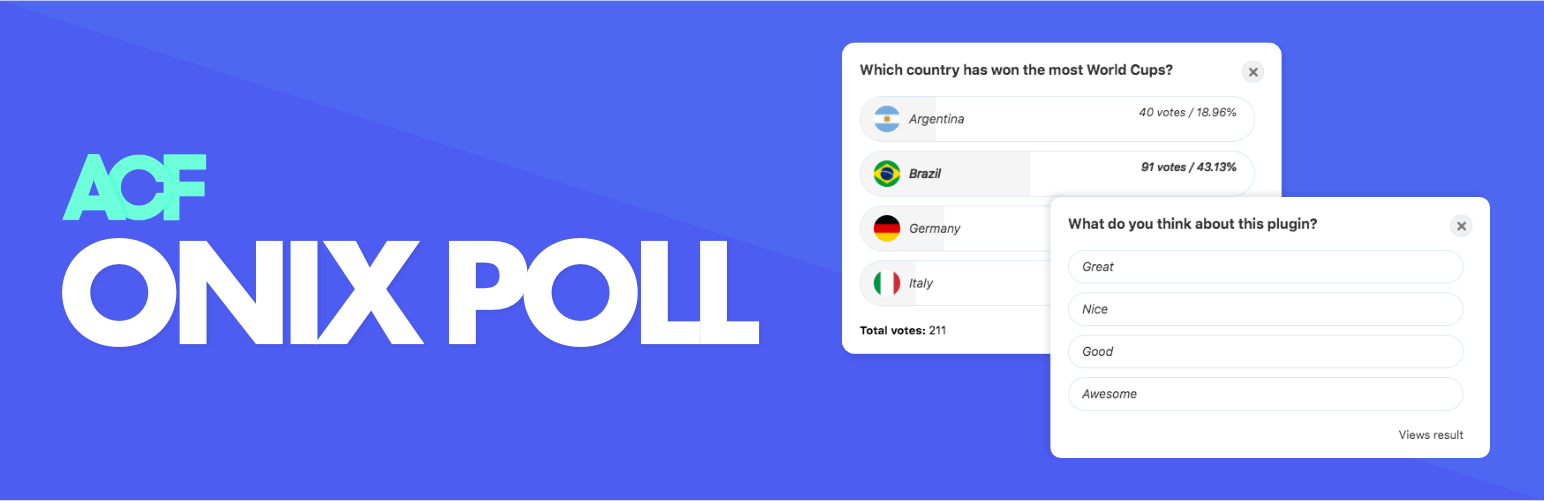
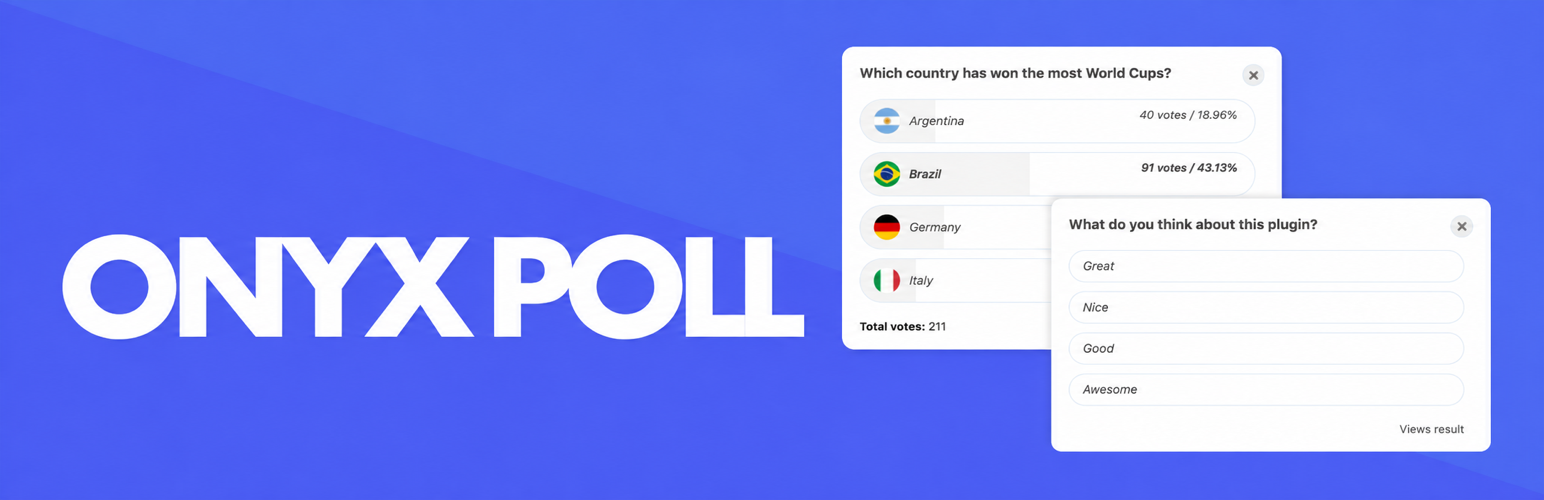
Enhance Onyx Poll plugin with migration support and breaking changes for version 2.0
- Implemented automatic migration from legacy ACF-based storage to dedicated plugin tables, preserving poll IDs, titles, answers, and settings.
- Updated poll retrieval logic to accommodate migration, ensuring compatibility with existing shortcodes and widgets.
- Introduced new language strings for migration FAQs and breaking changes in the Portuguese translation.
- Updated readme and documentation to reflect new requirements (WordPress 6.3 and PHP 7.4) and migration process.
- Improved asset management by validating image dimensions and ensuring proper handling of directory assets during release preparation.
- Added integration tests to verify migration behavior and poll retrieval under various conditions.
- Removed ACF dependency, allowing the plugin to function independently while maintaining backward compatibility with existing installations.

diff --git a/admin/poll-settings-help.php b/admin/poll-settings-help.php
@@ -30,6 +30,17 @@ class OnyxPollsSettingsHelp {
 		self::start(__('Do I need ACF or ACF PRO?', 'acf-onyx-poll'));
 		self::paragraph(__('No. Onyx Poll has its own editor, settings and database tables. Existing polls are migrated automatically and keep their IDs, answers, images and votes.', 'acf-onyx-poll'));
 		self::end();
+		self::start(__('How does migration from 1.2.0 to 2.0 work?', 'acf-onyx-poll'));
+		self::paragraph(__('Migration starts on activation or on the next WordPress request after updating an active plugin. It copies polls in resumable batches of 50 per request; a poll needed by a block, shortcode, widget or modal is imported on demand. No manual import or ACF installation is required.', 'acf-onyx-poll'));
+		self::paragraph(__('Poll IDs, answer order, image references, individual vote counters, dates and settings are preserved. Repeated migration does not overwrite new votes. Old custom fields are kept, but new votes and edits are saved only in the plugin tables.', 'acf-onyx-poll'));
+		self::end();
+		self::start(__('What are the breaking changes in 2.0?', 'acf-onyx-poll'));
+		self::paragraph(__('Version 2.0 requires WordPress 6.3 and PHP 7.4 or newer. The database user must be allowed to create tables. Back up the database and plugin files and test the update on a staging copy before updating a production site.', 'acf-onyx-poll'));
+		self::paragraph(__('Existing plugin blocks, shortcodes and widgets remain compatible. Custom code that reads or writes ACF poll fields or legacy post metadata, or relies on ACF forms and hooks, must be adapted to dedicated storage and native forms. Total votes is now read-only and equals the sum of the answers; a different manually entered total will change.', 'acf-onyx-poll'));
+		self::end();
+		self::start(__('Can I remove ACF or downgrade after updating?', 'acf-onyx-poll'));
+		self::paragraph(__('Onyx Poll and migration work without ACF. Keep ACF if your theme or other plugins need it. Downgrading to 1.2.0 does not copy new votes or edits back into legacy fields, and restoring a backup loses changes made after that backup. Keep a current database backup and test any rollback separately.', 'acf-onyx-poll'));
+		self::end();
 		self::start(__('How do I add a poll to a post?', 'acf-onyx-poll'));
 		self::paragraph(__('Insert the Onyx Poll block, select a poll and choose its style. You can also use a shortcode: without an ID it shows the latest published poll; with an ID it shows that specific poll.', 'acf-onyx-poll'));
 		self::code("[onyx-poll]\n[onyx-poll id=85]\n[onyx-poll id=85 class=\"twitter full\"]");

diff --git a/tests/integration.php b/tests/integration.php
@@ -172,6 +172,23 @@ try {
 	OnyxPollsStorage::upgrade();
 	$remaining = (int) $wpdb->get_var("SELECT COUNT(*) FROM $wpdb->posts p LEFT JOIN " . OnyxPollsStorage::table() . " o ON o.poll_id=p.ID WHERE p.post_type='onyxpolls' AND o.poll_id IS NULL");
 	onyx_check($remaining === 1 && !get_option(OnyxPollsStorage::MIGRATION), 'Migration pauses after a bounded batch of 50.');
+	$latest_batch_id = end($batch_ids);
+	$wpdb->update($wpdb->posts, array('post_date' => '2034-01-01 00:00:00'), array('ID' => $latest_batch_id));
+	onyx_check(OnyxPolls::has_poll() === $latest_batch_id, 'The ID-less shortcode must select the latest poll even before its migration batch.');
+	$pending_modal = onyx_fixture('Pending modal');
+	onyx_legacy($pending_modal);
+	$wpdb->update($wpdb->posts, array('post_date' => '2034-02-01 00:00:00'), array('ID' => $pending_modal));
+	$pending_inline = onyx_fixture('Pending non-modal');
+	onyx_legacy($pending_inline);
+	update_post_meta($pending_inline, 'onyx_poll_modal', 0);
+	$wpdb->update($wpdb->posts, array('post_date' => '2034-03-01 00:00:00'), array('ID' => $pending_inline));
+	$pending_expired = onyx_fixture('Pending expired modal');
+	onyx_legacy($pending_expired);
+	update_post_meta($pending_expired, 'onyx_poll_end', '2000-01-01 00:00:00');
+	$wpdb->update($wpdb->posts, array('post_date' => '2034-04-01 00:00:00'), array('ID' => $pending_expired));
+	onyx_check(OnyxPolls::has_polls(true, true) === $pending_modal, 'Modal selection must respect legacy flags and deadlines while migration is pending.');
+	onyx_check(OnyxPolls::has_poll() === $pending_expired, 'The latest shortcode includes expired polls during migration, as after migration.');
+	onyx_check(in_array($pending_inline, OnyxPollsStorage::ids(0, false, false, 100), true), 'Public listings must include pending legacy polls without importing unrelated drafts.');
 	onyx_check(OnyxPollsStorage::get(end($batch_ids))['total'] === 3, 'Unmigrated polls are imported on demand.');
 	OnyxPollsStorage::upgrade();
 	onyx_check((int) get_option(OnyxPollsStorage::MIGRATION) === 1, 'Migration can resume to completion.');

diff --git a/classes/poll-storage.php b/classes/poll-storage.php
@@ -146,12 +146,30 @@ class OnyxPollsStorage {
 
 	public static function ids($id = 0, $active = false, $modal = false, $limit = 1) {
 		global $wpdb;
+		$pending = !get_option(self::MIGRATION);
+		$column = function($key, $default) use ($wpdb, $pending) {
+			if (!$pending) { return 'o.' . $key; }
+			// Select legacy candidates without importing every poll in one request.
+			return 'COALESCE(o.' . $key . ',(SELECT m.meta_value FROM ' . $wpdb->postmeta .
+				' m WHERE m.post_id=p.ID AND m.meta_key=' . $wpdb->prepare('%s', 'onyx_poll_' . $key) .
+				' ORDER BY m.meta_id DESC LIMIT 1),' . $default . ')';
+		};
 		$where = "p.post_type='onyxpolls' AND p.post_status='publish'";
 		if ($id) { $where .= $wpdb->prepare(' AND p.ID=%d', $id); }
-		if ($modal) { $where .= ' AND o.modal=1'; }
-		if ($active) { $where .= $wpdb->prepare(' AND o.expired=0 AND (o.end IS NULL OR o.end>%s)', current_time('mysql')); }
-		return array_map('intval', $wpdb->get_col($wpdb->prepare("SELECT p.ID FROM $wpdb->posts p JOIN " .
-			self::table() . " o ON o.poll_id=p.ID WHERE $where ORDER BY p.post_date DESC,p.ID DESC LIMIT %d", $limit)));
+		if ($modal) { $where .= ' AND ' . $column('modal', '0') . '=1'; }
+		if ($active) {
+			$end = "NULLIF(" . $column('end', 'NULL') . ",'')";
+			$where .= ' AND ' . $column('expired', '0') . '=0' . $wpdb->prepare(" AND ($end IS NULL OR $end>%s)", current_time('mysql'));
+		}
+		$join = $pending ? 'LEFT JOIN' : 'JOIN';
+		$rows = $wpdb->get_results($wpdb->prepare("SELECT p.ID,o.poll_id AS imported FROM $wpdb->posts p $join " .
+			self::table() . " o ON o.poll_id=p.ID WHERE $where ORDER BY p.post_date DESC,p.ID DESC LIMIT %d", $limit), ARRAY_A);
+		$ids = array();
+		foreach ($rows as $row) {
+			if (!$row['imported'] && is_wp_error(self::migrate_poll($row['ID']))) { continue; }
+			$ids[] = (int) $row['ID'];
+		}
+		return $ids;
 	}
 
 	public static function vote($id, $position) {

diff --git a/readme.md b/readme.md
@@ -6,7 +6,7 @@
 
 Onyx Poll is an independent WordPress polling plugin using the **WP REST API**, native WordPress administration and its own database tables. ACF and ACF PRO are not required. Feel free to submit a Pull Request.
 
-The main goal of ACF Onyx Poll is to be **totally free, lightweight and simple**. No fancy, colorful and polluted options or donate screens.
+The main goal of Onyx Poll is to be **totally free, lightweight and simple**. No fancy, colorful and polluted options or donate screens.
 
 This plugin is based on [Twitter](https://twitter.com) poll cards style.
 
@@ -29,7 +29,7 @@ This plugin is based on [Twitter](https://twitter.com) poll cards style.
 * You can align the poll container with the option **class** in the shortcode: `[onyx-poll class=left]`. Available options are `left, right, full`
 * To select which **style** you want: `[onyx-poll class="twitter|standard"]`
 * Is it possible to combine style and aligment. Ex: `[onyx-poll class="standard left"]`
-* To include a **widget**, your theme need to support it. Go to Appereance > Widgets and select **Poll** widget from *from ACF Onyx Poll*
+* To include a **widget**, your theme need to support it. Go to Appereance > Widgets and select **Poll** widget from *Onyx Poll*
 
 ## FEATURES
 
@@ -70,6 +70,8 @@ On activation or upgrade, existing polls are automatically copied from their leg
 
 Poll IDs, answer order, image IDs, answer counters, end dates, voting limits and general settings are preserved. The legacy manually entered total is replaced with the sum of the answers. Old post metadata is retained for recovery. Existing shortcodes, widgets and `acf/acf-onyx-poll` Gutenberg blocks continue to work without rewriting post content. The legacy block name is a compatibility identifier, not an ACF dependency.
 
+Version 2.0 requires WordPress 6.3 and PHP 7.4 or newer and permission to create database tables. Custom templates or integrations that read/write ACF fields, legacy poll post metadata or ACF forms/hooks must be adapted. Back up and test on staging before a production upgrade. Legacy fields are not synchronized after migration: downgrading to 1.2.0 does not copy new votes or edits back to them. The public `readme.txt` includes a breaking-changes disclaimer, migration FAQ and WordPress.org upgrade notice.
+
 ## UNINSTALLING
 
 In **Polls > Settings**, administrators can choose **Keep data (default)** or **Permanently delete plugin data**. Permanent deletion displays an irreversible deletion warning and requires acknowledgement before saving the setting. Deactivating the plugin never deletes poll data.
@@ -109,9 +111,11 @@ svn diff _svn
 
 The version command updates `package.json`, the plugin header, the PHP version constant and the readme's stable tag together. `npm run release` checks JavaScript lint, builds the CSS/JS, checks that versions and requirements match, copies only runtime files into `_svn/trunk`, stages obsolete-file removals and new files, and creates `_svn/tags/<version>` locally. It also writes a SHA-256 manifest in `dist/svn-preparation.json`.
 
+The same command validates the exact PNG dimensions and copies the two banners (1544×500 and 772×250) and two icons (256×256 and 128×128) from `assets/images/` to `_svn/assets/`. These directory images stay outside trunk, tags and installation packages. Original branding backups in `assets/images/backups/` are local only: Git ignores them and release preparation never copies them to SVN or packages.
+
 No ZIP is needed for SVN publication, and the default command does not generate one. If you separately need a package for manual installation, `npm run release:zip` creates `dist/acf-onyx-poll-<version>.zip`; this optional command does not modify SVN.
 
-Preparing again before a commit is supported when the SVN files still match the previous generated manifest. Manual edits or unexpected working-copy changes cause preparation to stop before changing SVN. Committed tags are never overwritten. Historical tags and WordPress.org directory assets are preserved. The script never runs `svn update` or `svn commit` and never uses publication credentials; review and submit the local changes explicitly when ready.
+Preparing again before a commit is supported when the SVN files still match the previous generated manifest. Manual edits or unexpected working-copy changes, including changes to directory images, cause preparation to stop before changing SVN. Committed tags are never overwritten. Historical tags, screenshots and other directory assets are preserved. The script never runs `svn update` or `svn commit` and never uses publication credentials; review and submit the local changes explicitly when ready.
 
 `npm run test:release` exercises packaging, repeat preparation, version checks and protection of manual edits and published tags against a disposable local SVN repository. It never connects to WordPress.org.
 
